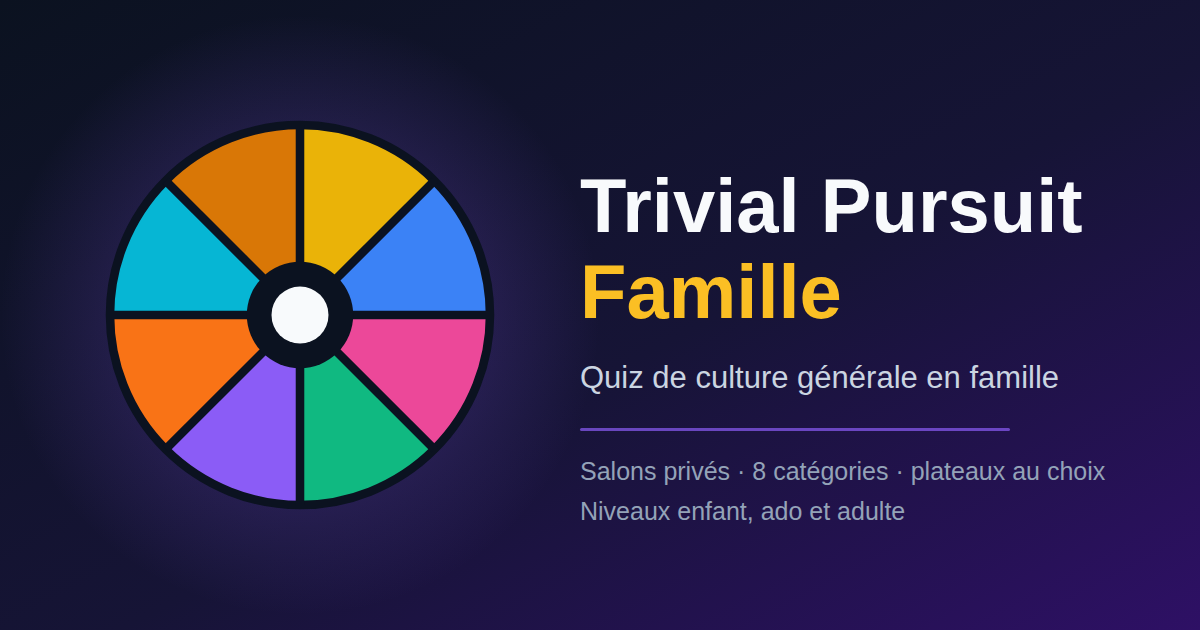
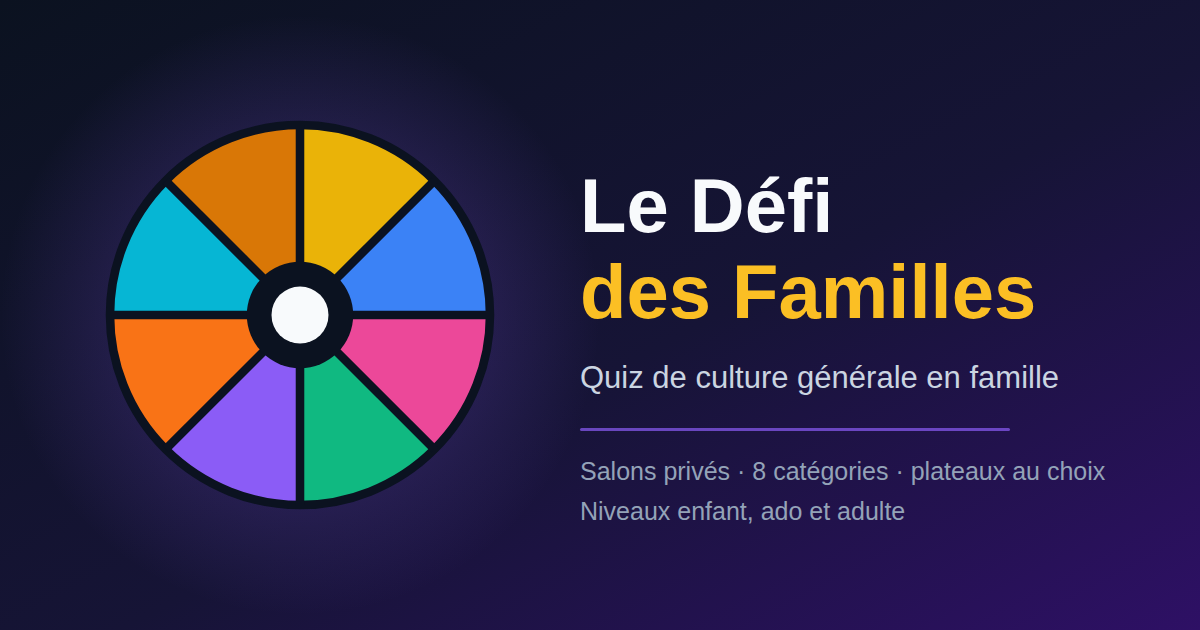
Le jeu s'appelle « Le Défi des Familles »
Le nom reprenait une marque déposée alors que le plateau circulaire et les
camemberts en reprenaient déjà l'habillage : demandé par le propriétaire du projet,
qui préfère ne pas cumuler les deux.

Le nom n'est plus recopié. `src/config/brand.ts` en est la source unique — il vivait
dans une vingtaine de fichiers, et un oubli ne se voit que sur l'écran où il se
cache. Quatre fichiers ne peuvent pas l'importer et le portent en clair (la page
HTML, `metadata.json`, les SVG de marque) ; le test de `previewMeta` vérifie que la
page servie s'accorde avec la constante, et les PNG de marque sont régénérés.

Ce qui **reste**, et qu'il ne faut pas « corriger » : les références au vrai jeu.
Une carte qui demande ce qu'on réunit pour gagner au Trivial Pursuit classique est
une question de culture des jeux, et l'analyse de difficulté prend l'édition Famille
du commerce pour étalon — ces deux mentions sont d'ailleurs reformulées pour dire
clairement qu'il s'agit du jeu du commerce, maintenant que nos noms diffèrent. Ce
qu'on retire, c'est le nom de notre produit, pas les références à un jeu célèbre.

Les identifiants de stockage restent inchangés (`tp_fam_session`,
`tp_fam_profile`) : les renommer déconnecterait chacun de sa session et effacerait
les profils enregistrés, pour un gain nul puisque personne ne les voit.

Changed region(s): [[0.4625, 0.2714, 0.925, 0.5127]]

diff --git a/index.html b/index.html
@@ -3,7 +3,7 @@
   <head>
     <meta charset="UTF-8" />
     <meta name="viewport" content="width=device-width, initial-scale=1.0" />
-    <title>Trivial Pursuit Famille</title>
+    <title>Le Défi des Familles</title>
     <meta name="description" content="Jeu de quiz familial multijoueur : salons privés, plateaux personnalisables et questions de culture générale pour toute la famille." />
 
     <!-- Icônes. Le SVG sert aux navigateurs récents, le PNG aux plus anciens,
@@ -16,24 +16,24 @@
          titre de la page et l'adresse brute de l'hébergeur. Les adresses
          d'image sont réécrites en absolu à la livraison (voir server.ts), les
          messageries refusant les chemins relatifs. -->
-    <meta property="og:title" content="Trivial Pursuit Famille" />
+    <meta property="og:title" content="Le Défi des Familles" />
     <meta property="og:description" content="Rejoignez le salon et jouez en famille : quiz de culture générale, plateaux personnalisables et niveaux enfant, ado et adulte." />
-    <meta property="og:site_name" content="Trivial Pursuit Famille" />
+    <meta property="og:site_name" content="Le Défi des Familles" />
     <meta property="og:type" content="website" />
     <meta property="og:locale" content="fr_BE" />
     <meta property="og:image" content="/og-image.png" />
     <meta property="og:image:type" content="image/png" />
     <meta property="og:image:width" content="1200" />
     <meta property="og:image:height" content="630" />
-    <meta property="og:image:alt" content="Roue des huit catégories du jeu, à côté du titre Trivial Pursuit Famille." />
+    <meta property="og:image:alt" content="Roue des huit catégories du jeu, à côté du titre Le Défi des Familles." />
     <meta name="twitter:card" content="summary_large_image" />
-    <meta name="twitter:title" content="Trivial Pursuit Famille" />
+    <meta name="twitter:title" content="Le Défi des Familles" />
     <meta name="twitter:description" content="Rejoignez le salon et jouez en famille : quiz de culture générale, plateaux personnalisables et niveaux enfant, ado et adulte." />
     <meta name="twitter:image" content="/og-image.png" />
 
     <!-- Nom affiché quand la page est ajoutée à l'écran d'accueil. -->
-    <meta name="apple-mobile-web-app-title" content="Trivial Pursuit" />
-    <meta name="application-name" content="Trivial Pursuit Famille" />
+    <meta name="apple-mobile-web-app-title" content="Défi des Familles" />
+    <meta name="application-name" content="Le Défi des Familles" />
     <meta name="theme-color" content="#7C3AED" />
   </head>
   <body>

diff --git a/src/components/InGameHeader.tsx b/src/components/InGameHeader.tsx
@@ -3,6 +3,7 @@ import { GameState } from '../types';
 import { soundManager } from '../utils/sound';
 import { AVATARS } from '../data/avatars';
 import { normalizeSeatName } from '../server/seats';
+import { GAME_NAME } from '../config/brand';
 import { Volume2, VolumeX, Copy, Check, Users, HelpCircle, LogOut, Share2, Pause, Play } from 'lucide-react';
 
 interface InGameHeaderProps {
@@ -72,8 +73,8 @@ export const InGameHeader: React.FC<InGameHeaderProps> = ({
     
     if (navigator.share) {
       navigator.share({
-        title: 'Trivial Pursuit Famille',
-        text: `Rejoins notre partie de Trivial Pursuit Famille avec le code ${gameState.roomCode} !`,
+        title: GAME_NAME,
+        text: `Rejoins notre partie du ${GAME_NAME} avec le code ${gameState.roomCode} !`,
         url: inviteUrl
       }).catch(() => {
         navigator.clipboard.writeText(inviteUrl);
@@ -441,7 +442,7 @@ export const InGameHeader: React.FC<InGameHeaderProps> = ({
         <div className="fixed inset-0 z-50 bg-black/70 backdrop-blur-sm flex items-start justify-center overflow-y-auto p-4">
           <div className="my-auto bg-slate-900 border border-slate-800 rounded-3xl p-6 max-w-md w-full text-white space-y-4">
             <h3 className="text-lg font-black text-amber-400 flex items-center gap-2">
-              📜 Règles du Trivial Pursuit Famille
+              📜 Règles du {GAME_NAME}
             </h3>
 
             <div className="space-y-2 text-xs text-slate-300 leading-relaxed">

diff --git a/src/components/Lobby.tsx b/src/components/Lobby.tsx
@@ -4,6 +4,7 @@ import { AvatarPicker } from './AvatarPicker';
 import { soundManager } from '../utils/sound';
 import { AVATARS } from '../data/avatars';
 import { BOARD_PRESETS } from '../data/boards';
+import { GAME_NAME, GAME_NAME_PARTS } from '../config/brand';
 import {
   DEFAULT_PROFILE,
   loadStoredProfile,
@@ -170,7 +171,7 @@ export const Lobby: React.FC<LobbyProps> = ({
     const url = `${window.location.origin}${window.location.pathname}?code=${gameState?.roomCode}`;
     if (navigator.share) {
       navigator.share({
-        title: 'Rejoins notre partie de Trivial Pursuit Famille !',
+        title: `Rejoins notre partie du ${GAME_NAME} !`,
         text: `Clique sur le lien pour rejoindre directement notre salon privé avec le code ${gameState?.roomCode}`,
         url
       }).catch(() => {
@@ -546,7 +547,7 @@ export const Lobby: React.FC<LobbyProps> = ({
           🎯
         </div>
         <h1 className="text-2xl sm:text-3xl font-black text-white tracking-tight">
-          Trivial Pursuit <span className="text-transparent bg-clip-text bg-gradient-to-r from-amber-500 to-orange-500">Famille</span>
+          {GAME_NAME_PARTS.lead} <span className="text-transparent bg-clip-text bg-gradient-to-r from-amber-500 to-orange-500">{GAME_NAME_PARTS.accent}</span>
         </h1>
         <p className="text-xs sm:text-sm text-slate-400 font-medium">
           Le quiz de culture générale à jouer en famille, sur un ou plusieurs appareils.

diff --git a/src/config/brand.ts b/src/config/brand.ts
@@ -1,0 +1,19 @@
+/**
+ * Le nom du jeu, en un seul endroit.
+ *
+ * Il était recopié dans une vingtaine de fichiers — écran d'accueil, partage,
+ * règles, journal du serveur, balises de partage, favicons. Le renommer a
+ * demandé de les retrouver un par un, et un oubli ne se voit que sur l'écran où
+ * il se cache. Toute nouvelle apparition du nom passe par ici.
+ *
+ * `index.html`, les SVG de marque et `metadata.json` ne peuvent pas importer ce
+ * module : ils portent le nom en clair, et le test de `previewMeta` vérifie que
+ * la page servie s'accorde avec cette constante.
+ */
+export const GAME_NAME = 'Le Défi des Familles';
+
+/**
+ * Le nom coupé en deux pour l'affichage, la seconde moitié recevant le dégradé
+ * orange de l'écran d'accueil et de l'image de partage.
+ */
+export const GAME_NAME_PARTS = { lead: 'Le Défi', accent: 'des Familles' } as const;

diff --git a/tests/previewMeta.test.ts b/tests/previewMeta.test.ts
@@ -23,7 +23,7 @@ test('les images d’aperçu passent en adresse absolue', () => {
 test('les autres balises et les icônes ne sont pas touchées', () => {
   const rendered = withAbsolutePreviewImages(indexHtml, 'https://jeu.example.com');
 
-  assert.match(rendered, /<title>Trivial Pursuit Famille<\/title>/);
+  assert.match(rendered, /<title>Le Défi des Familles<\/title>/);
   assert.match(rendered, /<link rel="icon" type="image\/svg\+xml" href="\/favicon\.svg" \/>/);
   assert.match(rendered, /<link rel="apple-touch-icon" sizes="180x180" href="\/apple-touch-icon\.png" \/>/);
   assert.match(rendered, /<meta property="og:image:width" content="1200" \/>/);

diff --git a/scripts/analyze-difficulty.ts b/scripts/analyze-difficulty.ts
@@ -3,8 +3,8 @@
  *
  * Contrairement à `audit-questions.ts`, ce script ne fait jamais échouer la
  * commande : il mesure. Il sert à piloter le rééquilibrage du niveau des
- * cartes (référence visée : Trivial Pursuit Famille, culture générale grand
- * public, avec un ancrage francophone assumé).
+ * cartes (étalon visé : l'édition Famille du Trivial Pursuit du commerce,
+ * culture générale grand public, avec un ancrage francophone assumé).
  *
  * Usage : npm run analyze:difficulty
  */

diff --git a/server.ts b/server.ts
@@ -1495,7 +1495,7 @@ async function startServer() {
   startRoomPersistence(rooms);
 
   httpServer.listen(PORT, '0.0.0.0', () => {
-    console.log(`🎮 Serveur Trivial Pursuit Famille en ligne sur http://0.0.0.0:${PORT}`);
+    console.log(`🎮 Serveur Le Défi des Familles en ligne sur http://0.0.0.0:${PORT}`);
     console.log(`💾 Parties sauvegardées dans ${ROOM_STORE_PATH}`);
   });
 }

diff --git a/CLAUDE.md b/CLAUDE.md
@@ -1,4 +1,4 @@
-# Trivial Pursuit Famille — notes pour les sessions agentiques
+# Le Défi des Familles — notes pour les sessions agentiques
 
 Jeu de quiz familial multijoueur, joué en Belgique francophone. React + TypeScript +
 Vite + Tailwind v4 côté client, Express + socket.io côté serveur (`server.ts`),
@@ -216,6 +216,24 @@ Points de vigilance connus :
   oublié laisse un joueur visible à l'écran mais que le serveur n'autorise plus à
   agir. Le jeton de session vit dans le `localStorage` : il ne survit pas au
   changement de navigateur, d'où la reprise par prénom (`src/server/seats.ts`).
+
+## Le nom du jeu vit dans une constante
+
+Le jeu s'appelait « Trivial Pursuit Famille », ce qui reprenait une marque déposée
+alors que le plateau et les camemberts en reprenaient déjà l'habillage. Il s'appelle
+**Le Défi des Familles**, et son nom n'est plus recopié : `src/config/brand.ts` en est
+la source (`GAME_NAME`, et `GAME_NAME_PARTS` pour l'affichage en deux teintes).
+
+Quatre fichiers ne peuvent pas l'importer et le portent en clair — `index.html`,
+`metadata.json`, `assets-source/*.svg` et `public/favicon.svg`. Le test de
+`previewMeta` vérifie que la page servie s'accorde avec la constante, et
+`npm run assets:brand` régénère les PNG après toute retouche des SVG.
+
+En revanche, **citer le vrai Trivial Pursuit reste légitime** et ne doit pas être
+« corrigé » : une carte qui demande ce qu'on réunit pour gagner au Trivial Pursuit
+classique est une question de culture des jeux, et l'analyse de difficulté prend
+l'édition Famille du commerce pour étalon. Ce qu'on a retiré, c'est le nom **de
+notre produit**, pas les références à un jeu célèbre.
 
 ## Conventions
 

diff --git a/docs/analyse-niveaux-difficulte.md b/docs/analyse-niveaux-difficulte.md
@@ -10,7 +10,7 @@ Date : juillet 2026 — corpus analysé : 5 360 cartes
 > décrivent l'état initial : ils sont conservés tels quels pour garder la
 > trace du diagnostic.
 
-Référence visée : **Trivial Pursuit Famille**, c'est-à-dire de la culture
+Étalon visé : l'**édition Famille du Trivial Pursuit du commerce**, c'est-à-dire de la culture
 générale grand public où un adulte informé répond correctement à peu près
 une fois sur deux, où l'on apprend quelque chose en perdant, et où un ado
 peut battre ses parents sur une carte de temps en temps.

diff --git a/docs/adr/0001-question-bank-editorial-architecture.md b/docs/adr/0001-question-bank-editorial-architecture.md
@@ -2,7 +2,7 @@
 
 - Statut : accepté
 - Date : 2026-07-27
-- Portée : banque de questions du Trivial Pursuit familial
+- Portée : banque de questions du Défi des Familles
 
 ## Contexte
 
